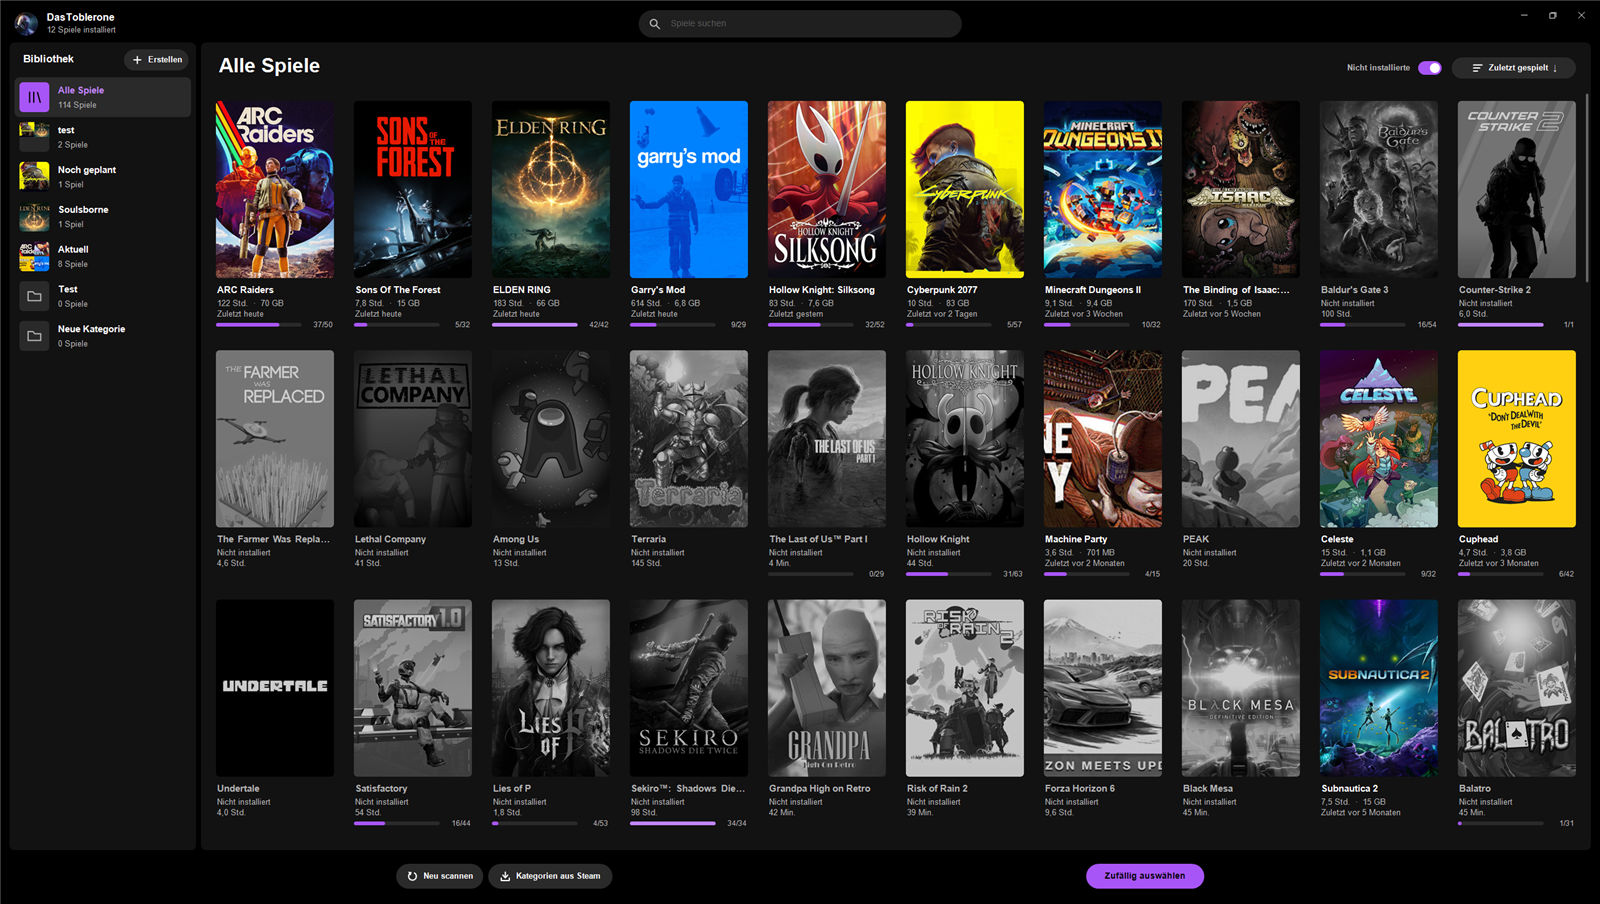
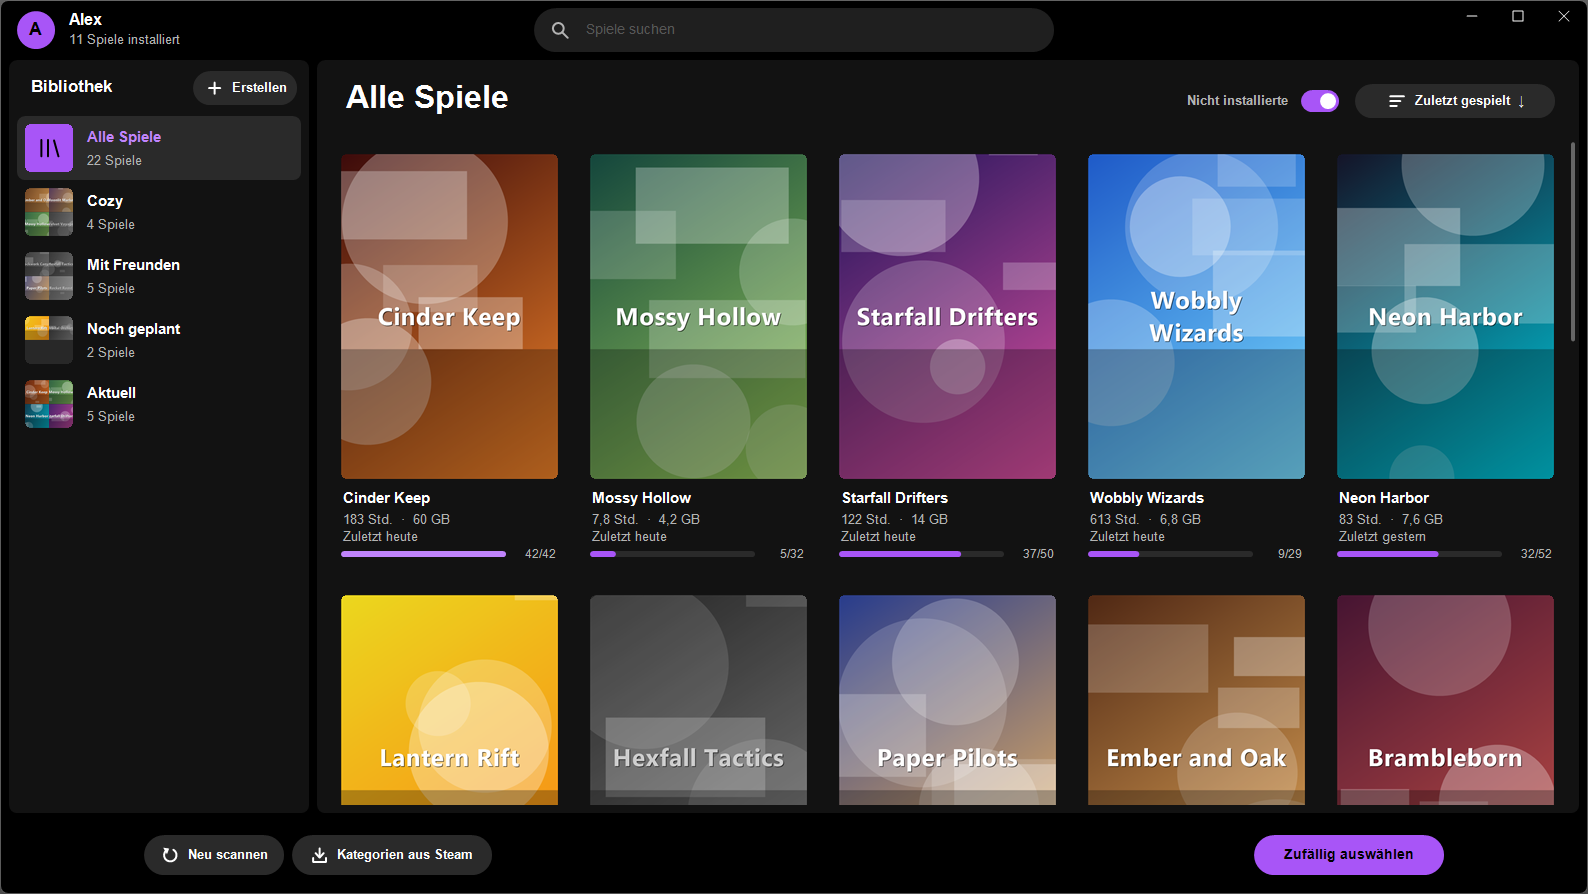
Rename to PLAYR-Launcher, add MIT license and privacy policy, new demo screenshots

diff --git a/PLAYR-Launcher.cpp b/PLAYR-Launcher.cpp
@@ -1,6 +1,6 @@
-// Steam Game Randomizer
+// PLAYR-Launcher
 //
-// Picks a random installed Steam game, or the one you click. Games are read from the local Steam
+// Lists your installed Steam games, launches the one you click, or picks one at random. Games are read from the local Steam
 // libraries, cover art comes from Steam's CDN, and everything is drawn with GDI+ in a dark
 // Spotify-like style with a purple accent.
 
@@ -566,7 +566,7 @@ bool HttpGet(const std::wstring& url, Sink sink) {
     if (!WinHttpCrackUrl(url.c_str(), 0, 0, &parts)) return false;
     std::wstring target = std::wstring(path) + std::wstring(parts.lpszExtraInfo, parts.dwExtraInfoLength);
 
-    HINTERNET session = WinHttpOpen(L"GameRandomizer/1.0", WINHTTP_ACCESS_TYPE_AUTOMATIC_PROXY,
+    HINTERNET session = WinHttpOpen(L"PLAYR-Launcher/1.0", WINHTTP_ACCESS_TYPE_AUTOMATIC_PROXY,
         WINHTTP_NO_PROXY_NAME, WINHTTP_NO_PROXY_BYPASS, 0);
     if (!session) return false;
     WinHttpSetTimeouts(session, 5000, 5000, 10000, 10000);
@@ -2846,8 +2846,13 @@ int WINAPI wWinMain(HINSTANCE instance, HINSTANCE, PWSTR, int show) {
     g_scale = GetDeviceCaps(screen, LOGPIXELSX) / 96.0f;
     ReleaseDC(nullptr, screen);
 
-    g_dataDir = KnownFolder(FOLDERID_RoamingAppData) + L"\\GameRandomizer";
+    g_dataDir = KnownFolder(FOLDERID_RoamingAppData) + L"\\PLAYR-Launcher";
     g_coverDir = g_dataDir + L"\\covers";
+    {   // the app used to be called GameRandomizer: take over its settings and covers
+        std::error_code ec;
+        fs::path legacy = fs::path(KnownFolder(FOLDERID_RoamingAppData)) / L"GameRandomizer";
+        if (fs::exists(legacy, ec) && !fs::exists(g_dataDir, ec)) fs::rename(legacy, g_dataDir, ec);
+    }
     CreateDirectoryW(g_dataDir.c_str(), nullptr);
     CreateDirectoryW(g_coverDir.c_str(), nullptr);
     LoadSettings();
@@ -2857,7 +2862,7 @@ int WINAPI wWinMain(HINSTANCE instance, HINSTANCE, PWSTR, int show) {
     LoadAvatar();
     MergeGames(ScanSteamGames());
 
-    const wchar_t className[] = L"SteamGameRandomizerWindow";
+    const wchar_t className[] = L"PlayrLauncherWindow";
     WNDCLASSW wc{};
     wc.style = CS_DBLCLKS;
     wc.lpfnWndProc = WindowProc;
@@ -2874,7 +2879,7 @@ int WINAPI wWinMain(HINSTANCE instance, HINSTANCE, PWSTR, int show) {
     SystemParametersInfoW(SPI_GETWORKAREA, 0, &work, 0);
     int x = work.left + std::max(0, (int)(work.right - work.left - width) / 2);
     int y = work.top + std::max(0, (int)(work.bottom - work.top - height) / 2);
-    HWND hwnd = CreateWindowExW(0, className, L"Steam Game Randomizer", WINDOW_STYLE, x, y, width, height,
+    HWND hwnd = CreateWindowExW(0, className, L"PLAYR-Launcher", WINDOW_STYLE, x, y, width, height,
         nullptr, nullptr, instance, nullptr);
     if (!hwnd) {
         GdiplusShutdown(gdiToken);

diff --git a/PRIVACY.md b/PRIVACY.md
@@ -1,0 +1,50 @@
+# Datenschutzerklärung
+
+Stand: November 2026
+
+PLAYR-Launcher ist ein Programm, das lokal auf deinem Rechner läuft. Es gibt keinen Server des Entwicklers, kein Benutzerkonto, keine Telemetrie und keine Statistik. **Der Entwickler erhält keine Daten von dir.**
+
+Dies ist ein privates, kostenloses und nicht kommerzielles Open-Source-Projekt. Ansprechpartner ist der Besitzer des Repositorys (GitHub-Nutzer DasToblerone), erreichbar über die [Issues](https://github.com/DasToblerone/playr-launcher/issues).
+
+## Was die App auf deinem Rechner liest
+
+Die App liest ausschließlich lesend aus dem Ordner deiner Steam-Installation:
+
+- die Liste deiner Bibliotheksordner und der installierten Spiele,
+- den Namen und die SteamID64 des zuletzt angemeldeten Steam-Kontos sowie sein Profilbild aus dem Steam-Cache,
+- Spielzeit, zuletzt gespielt und Erfolgsstände aus Steams lokalen Dateien,
+- deine Steam-Sammlungen, wenn du „Kategorien aus Steam“ benutzt.
+
+Diese Daten bleiben auf deinem Rechner und werden nur zur Anzeige verwendet. Name und SteamID64 werden nicht ins Netz gesendet.
+
+## Was die App speichert
+
+Unter `%APPDATA%\PLAYR-Launcher` legt die App ab:
+
+- `settings.txt`: deine Kategorien, Zuordnungen und Sortierung,
+- `types.txt` und `owned.txt`: zwischengespeicherte Auskünfte des Steam-Stores (ob eine App ein Spiel ist, Namen nicht installierter Spiele),
+- `covers\`: heruntergeladene Titelbilder.
+
+Zum Löschen entfernst du diesen Ordner.
+
+## Verbindungen ins Internet
+
+Die App ruft von sich aus nur zwei Dienste ab, um Titelbilder und Spielinformationen zu laden:
+
+1. **Steam Store** (`store.steampowered.com`, Valve Corporation): Dabei wird die **App-ID** eines Spiels übertragen, um Typ und Namen zu erfragen. Da das eine normale Internetverbindung ist, sieht Valve auch deine IP-Adresse. Auf dem Weg dorthin werden also App-IDs deiner Bibliothek übertragen, einschließlich Spielen, die du besitzt, aber nicht installiert hast.
+2. **Steam-CDN** (`cdn.cloudflare.steamstatic.com` und weitere Steam-Bildserver, betrieben mit Cloudflare): Dort werden die Titelbilder abgerufen. Auch hier sehen die Betreiber deine IP-Adresse und die angefragte App-ID.
+
+Welche Daten Valve und Cloudflare dabei verarbeiten, richtet sich nach deren eigenen Datenschutzerklärungen:
+[Valve](https://store.steampowered.com/privacy_agreement/), [Cloudflare](https://www.cloudflare.com/privacypolicy/).
+
+Rechtsgrundlage für diese Abrufe ist dein Wunsch, die App zu benutzen (Art. 6 Abs. 1 lit. b DSGVO). Du kannst die Verbindungen mit einer Firewall-Regel für `PLAYR-Launcher.exe` blockieren. Die App funktioniert dann mit bereits gespeicherten Bildern weiter, zeigt aber für neue Spiele keine Titelbilder.
+
+Wenn du ein Spiel startest, übergibt die App den Link `steam://rungameid/<App-ID>` an Windows, und der Steam-Client startet das Spiel.
+
+## Dieses GitHub-Repository und Downloads
+
+Der Quellcode und die Downloads liegen auf GitHub (GitHub, Inc. / Microsoft). Beim Besuch des Repositorys oder beim Herunterladen verarbeitet GitHub technische Daten wie deine IP-Adresse. Darauf hat der Entwickler keinen Einfluss; siehe die [Datenschutzerklärung von GitHub](https://docs.github.com/de/site-policy/privacy-policies/github-general-privacy-statement).
+
+## Deine Rechte
+
+Da der Entwickler keine personenbezogenen Daten von dir verarbeitet, gibt es bei ihm nichts zu löschen oder auszukunftern. Bei Fragen eröffne ein [Issue](https://github.com/DasToblerone/playr-launcher/issues). Gegenüber Valve, Cloudflare und GitHub kannst du deine Rechte nach der DSGVO bei diesen Unternehmen geltend machen. Du hast außerdem das Recht, dich bei einer Datenschutz-Aufsichtsbehörde zu beschweren.

diff --git a/README.md b/README.md
@@ -1,32 +1,26 @@
-# Steam Game Randomizer
+# PLAYR-Launcher
 
-Eine kleine Windows-App, die deine installierten Steam-Spiele zeigt und dir hilft, eins auszuwählen. Die Oberfläche ist an Spotifys Darkmode angelehnt.
+Eine kleine Windows-App, die deine installierten Steam-Spiele als Bibliothek zeigt. Du startest ein Spiel mit einem Klick oder lässt dir eins vorschlagen. Die Oberfläche ist an einen dunklen Musik-Player mit Playlists angelehnt.
 
 ![Listenansicht](screenshots/liste.png)
 
 ![Kartenansicht](screenshots/karten.png)
 
-*Screenshots von Version 1.6.0.*
+*Screenshots von Version 1.6.0 mit Demodaten und erfundenen Spielen.*
 
 - Liest die installierten Spiele aus allen Steam-Bibliotheken, mit Titelbild, Spielzeit, zuletzt gespielt, Größe und Erfolgsfortschritt
 - Zeigt auch Spiele, die du besitzt, aber nicht installiert hast, grau und ohne Start-Button
 - Eigene Kategorien wie Playlists, auch aus deinen Steam-Sammlungen importierbar
 - Suche, Sortieren, Listen- und Kartenansicht, zufälliges Spiel auswählen
 
-Geschrieben in C++ mit der Win32-API und GDI+, ohne weitere Abhängigkeiten. Einstellungen und Bilder liegen unter `%APPDATA%\GameRandomizer`.
+Geschrieben in C++ mit der Win32-API und GDI+, ohne weitere Abhängigkeiten. Einstellungen und Bilder liegen unter `%APPDATA%\PLAYR-Launcher`. Die App liest Steams Dateien nur und schreibt nur in diesen Ordner.
 
-## Selbst bauen
+## Datenschutz
 
-Du brauchst Windows 10 oder 11 und den C++-Compiler von Microsoft.
+Die App hat keinen Server, kein Konto und keine Telemetrie, der Entwickler erhält keine Daten. Für Titelbilder und Spielinformationen ruft sie den Steam-Store und das Steam-CDN ab, dabei sehen deren Betreiber deine IP-Adresse und die App-IDs deiner Spiele. Details stehen in der [Datenschutzerklärung](PRIVACY.md).
 
-1. **Compiler installieren** (einmalig, etwa 3 GB): die „Build Tools für Visual Studio“ von [visualstudio.microsoft.com](https://visualstudio.microsoft.com/downloads/) mit dem Workload „Desktopentwicklung mit C++“, oder in einer Eingabeaufforderung:
-   ```
-   winget install Microsoft.VisualStudio.2022.BuildTools --override "--wait --passive --add Microsoft.VisualStudio.Workload.VCTools --includeRecommended"
-   ```
-2. **Quellcode holen:** auf GitHub „Code“, dann „Download ZIP“ und entpacken, oder `git clone https://github.com/DasToblerone/steam-game-randomizer`.
-3. **Bauen:** im Startmenü die „x64 Native Tools Command Prompt für VS“ öffnen, mit `cd` in den Ordner des Quellcodes wechseln und diese zwei Befehle eingeben. Nach etwa einer halben Minute liegt `SteamGameRandomizer.exe` im selben Ordner.
+## Hinweise
 
-```
-rc /nologo SteamGameRandomizer.rc
-cl /EHsc /O2 /std:c++17 /utf-8 /MT SteamGameRandomizer.cpp /Fe:SteamGameRandomizer.exe /link /SUBSYSTEM:WINDOWS user32.lib gdi32.lib advapi32.lib SteamGameRandomizer.res
-```
+- PLAYR-Launcher ist ein unabhängiges Projekt und steht in keiner Verbindung zu Valve. „Steam“ ist eine Marke der Valve Corporation, Titelbilder und Spielnamen gehören ihren jeweiligen Inhabern. Die Bilder werden zur Laufzeit von Steam geladen und nicht mit der App verteilt.
+- Die fertige `.exe` ist nicht signiert. Windows SmartScreen oder dein Virenscanner können deshalb warnen.
+- Lizenz: [MIT](LICENSE). Das Projekt ist kostenlos, quelloffen und nicht kommerziell. Fragen und Fehler gern als [Issue](https://github.com/DasToblerone/playr-launcher/issues).
